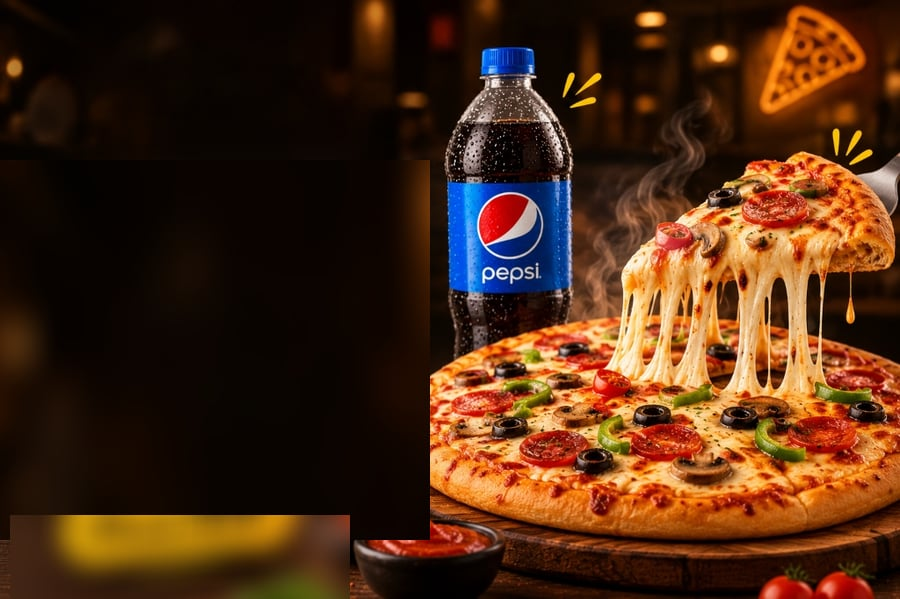
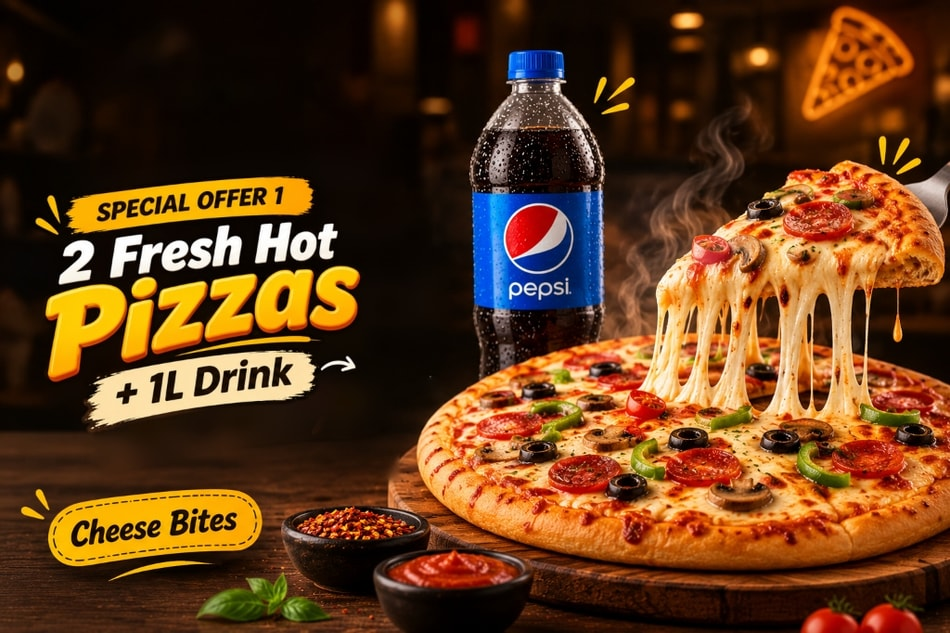
feat: restore uncropped real images for deals and kabab stuffer without blur

diff --git a/src/context/MenuContext.tsx b/src/context/MenuContext.tsx
@@ -15,8 +15,8 @@ interface MenuContextType {
   resetToDefaultMenu: () => void;
 }
 
-const MENU_KEY = 'cheese_bites_menu_items_v11_stuffer_pizzas';
-const DEALS_KEY = 'cheese_bites_deals_items_v9_clean_text';
+const MENU_KEY = 'cheese_bites_menu_items_v12_real_images';
+const DEALS_KEY = 'cheese_bites_deals_items_v10_real_images';
 
 const MenuContext = createContext<MenuContextType | undefined>(undefined);
 
